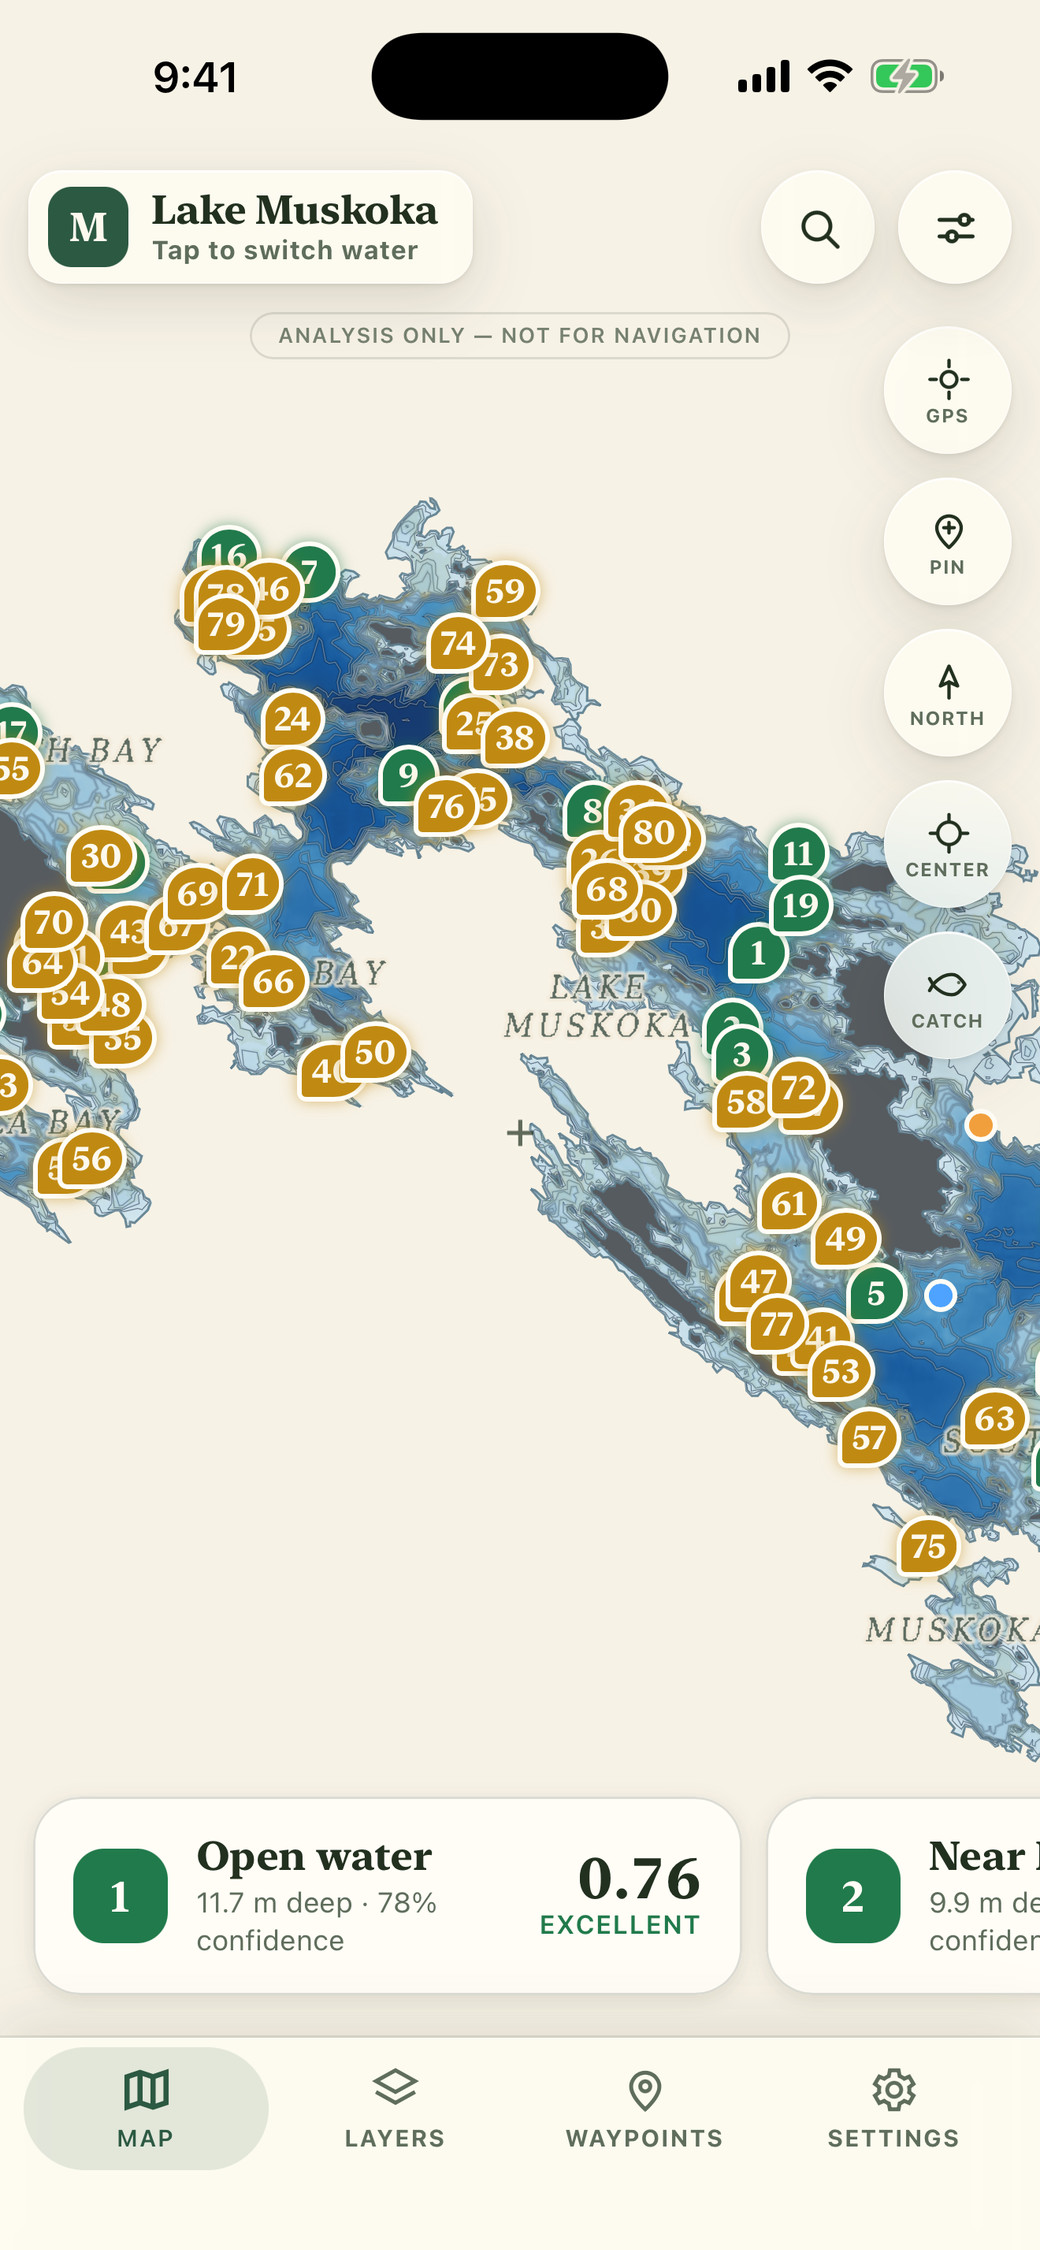
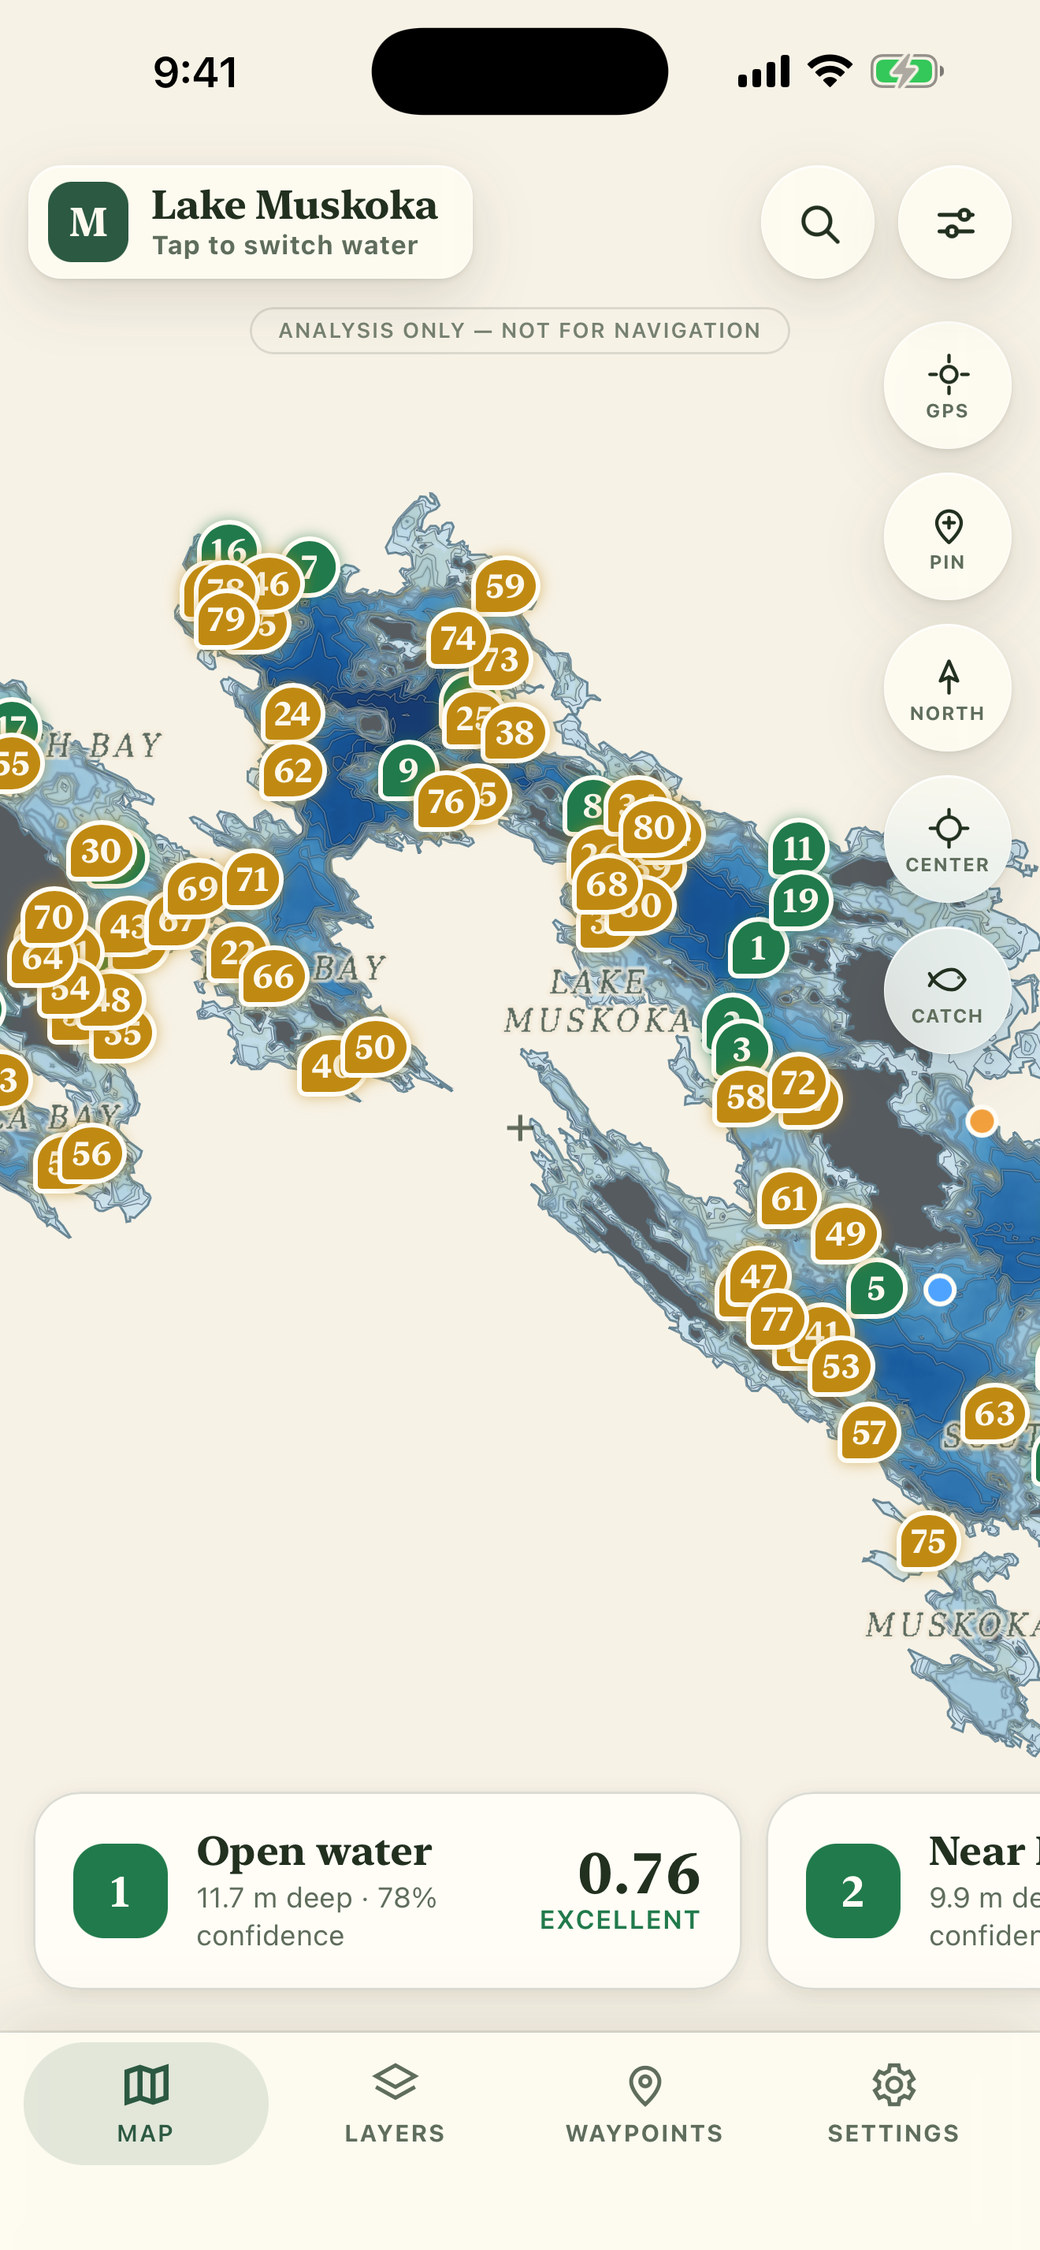
Website screenshots recaptured from the current build (regions picker, glass dock, scaled spots)

diff --git a/index.html b/index.html
@@ -234,13 +234,13 @@ footer a{margin-right:16px}
         <div class="factor"><b>Thermocline</b><span>the temperature layer, modelled per lake</span></div>
       </div>
     </div>
-    <img class="phone" src="assets/02-breakdown.jpg?v=25c16616" width="1040" height="2250" loading="lazy" alt="Anglers Edge spot breakdown: a 0.76 Excellent score with depth, hump, break and point factors explained">
+    <img class="phone" src="assets/02-breakdown.jpg?v=d48c698e" width="1040" height="2250" loading="lazy" alt="Anglers Edge spot breakdown: a 0.76 Excellent score with depth, hump, break and point factors explained">
   </div>
 </div></section>
 
 <section id="honest" style="padding-top:0"><div class="wrap">
   <div class="split">
-    <img class="phone" src="assets/03-lakes.jpg?v=9b165161" width="1040" height="2250" loading="lazy" alt="Anglers Edge lake switcher listing Ontario lakes with survey-grade data badges">
+    <img class="phone" src="assets/03-lakes.jpg?v=87e3f7e4" width="1040" height="2250" loading="lazy" alt="Anglers Edge lake switcher listing Ontario lakes with survey-grade data badges">
     <div>
       <div class="eyebrow">Honest by design</div>
       <h2>We tell you what we know — and what we don't.</h2>
@@ -307,12 +307,12 @@ footer a{margin-right:16px}
   <div class="eyebrow">A look inside</div>
   <h2>Built like a fieldbook, not a dashboard.</h2>
   <div class="gallery">
-    <figure><img src="assets/01-map.jpg?v=a3215b7e" width="1040" height="2250" loading="lazy" alt="Anglers Edge map of Lake Muskoka with ranked fishing spots"><figcaption>Ranked spots on your lake</figcaption></figure>
-    <figure><img src="assets/02-breakdown.jpg?v=25c16616" width="1040" height="2250" loading="lazy" alt="Fishing spot score breakdown in Anglers Edge"><figcaption>Why a spot rates</figcaption></figure>
-    <figure><img src="assets/04-conditions.jpg?v=42062be7" width="1040" height="2250" loading="lazy" alt="48-hour bite window forecast and conditions in Anglers Edge"><figcaption>When to go: the 48-hour bite window</figcaption></figure>
-    <figure><img src="assets/05-layers.jpg?v=a444d9d8" width="1040" height="2250" loading="lazy" alt="Bathymetry, contours and structure layers in Anglers Edge"><figcaption>Structure layers, one tap each</figcaption></figure>
-    <figure><img src="assets/03-lakes.jpg?v=9b165161" width="1040" height="2250" loading="lazy" alt="Lake switcher with 42 Ontario lakes in Anglers Edge"><figcaption>42 Ontario lakes and counting</figcaption></figure>
-    <figure><img src="assets/06-night.jpg?v=091628ac" width="1040" height="2250" loading="lazy" alt="Anglers Edge Night Ops dark map for dawn and dusk fishing"><figcaption>Night Ops for the dawn run</figcaption></figure>
+    <figure><img src="assets/01-map.jpg?v=a6ea0542" width="1040" height="2250" loading="lazy" alt="Anglers Edge map of Lake Muskoka with ranked fishing spots"><figcaption>Ranked spots on your lake</figcaption></figure>
+    <figure><img src="assets/02-breakdown.jpg?v=d48c698e" width="1040" height="2250" loading="lazy" alt="Fishing spot score breakdown in Anglers Edge"><figcaption>Why a spot rates</figcaption></figure>
+    <figure><img src="assets/04-conditions.jpg?v=c4d4ff68" width="1040" height="2250" loading="lazy" alt="48-hour bite window forecast and conditions in Anglers Edge"><figcaption>When to go: the 48-hour bite window</figcaption></figure>
+    <figure><img src="assets/05-layers.jpg?v=4a51ac29" width="1040" height="2250" loading="lazy" alt="Bathymetry, contours and structure layers in Anglers Edge"><figcaption>Structure layers, one tap each</figcaption></figure>
+    <figure><img src="assets/03-lakes.jpg?v=87e3f7e4" width="1040" height="2250" loading="lazy" alt="Lake switcher with 42 Ontario lakes in Anglers Edge"><figcaption>42 Ontario lakes and counting</figcaption></figure>
+    <figure><img src="assets/06-night.jpg?v=849fcaa0" width="1040" height="2250" loading="lazy" alt="Anglers Edge Night Ops dark map for dawn and dusk fishing"><figcaption>Night Ops for the dawn run</figcaption></figure>
   </div>
 </div></section>
 
